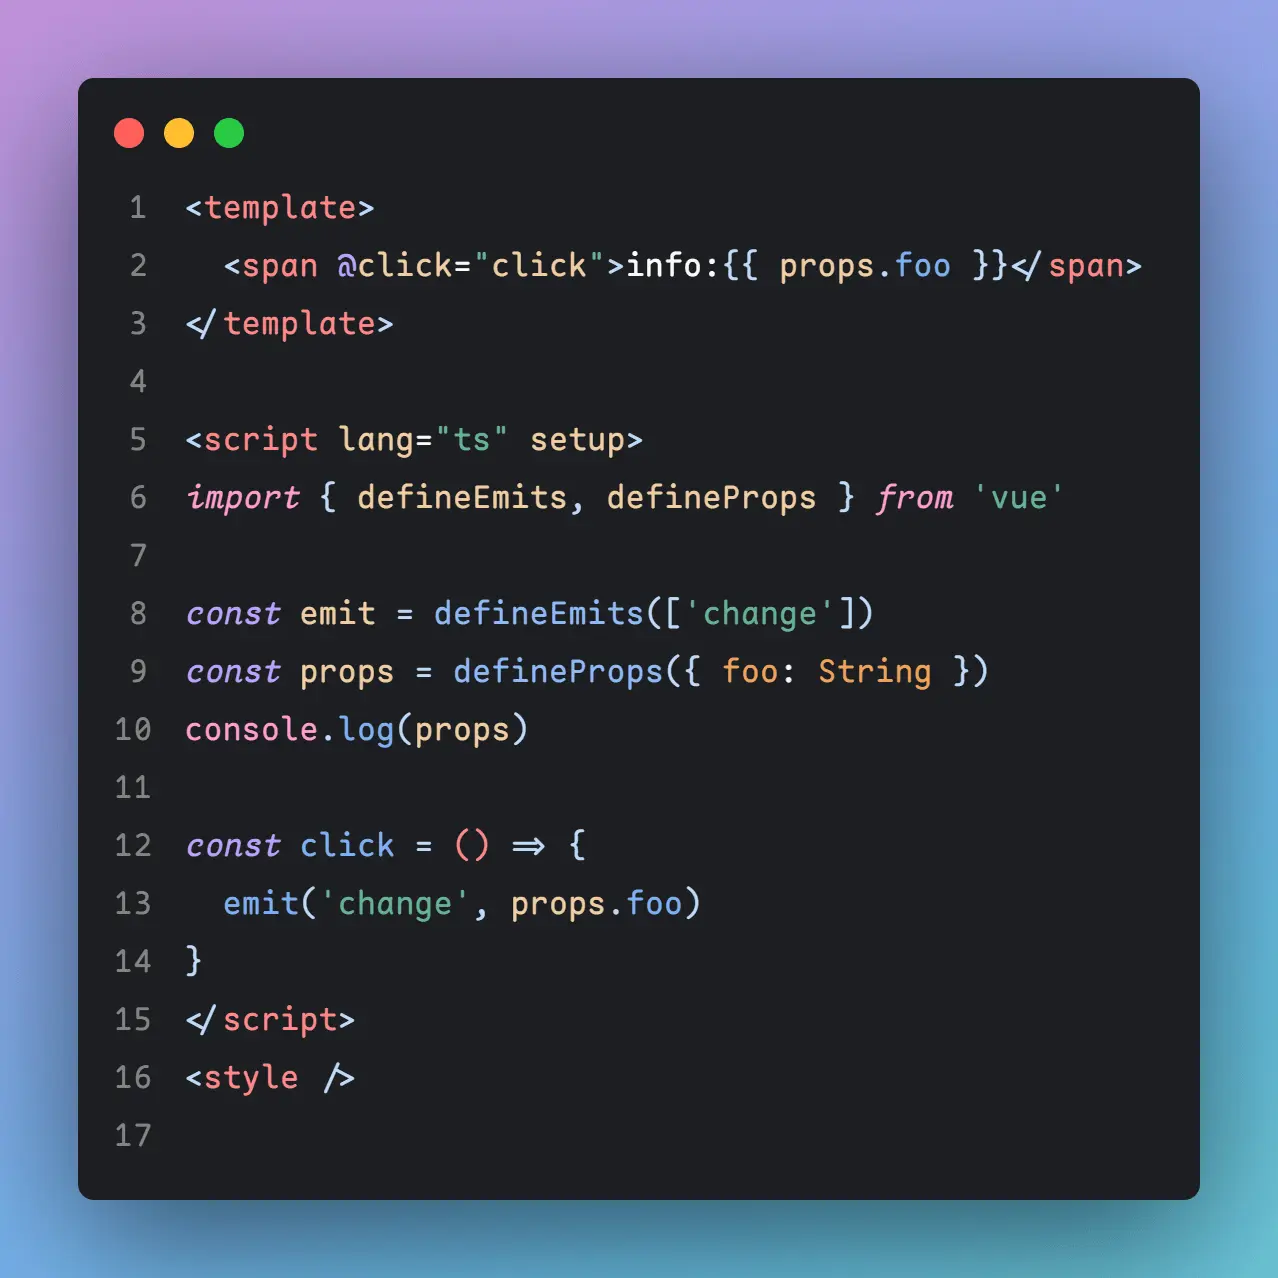
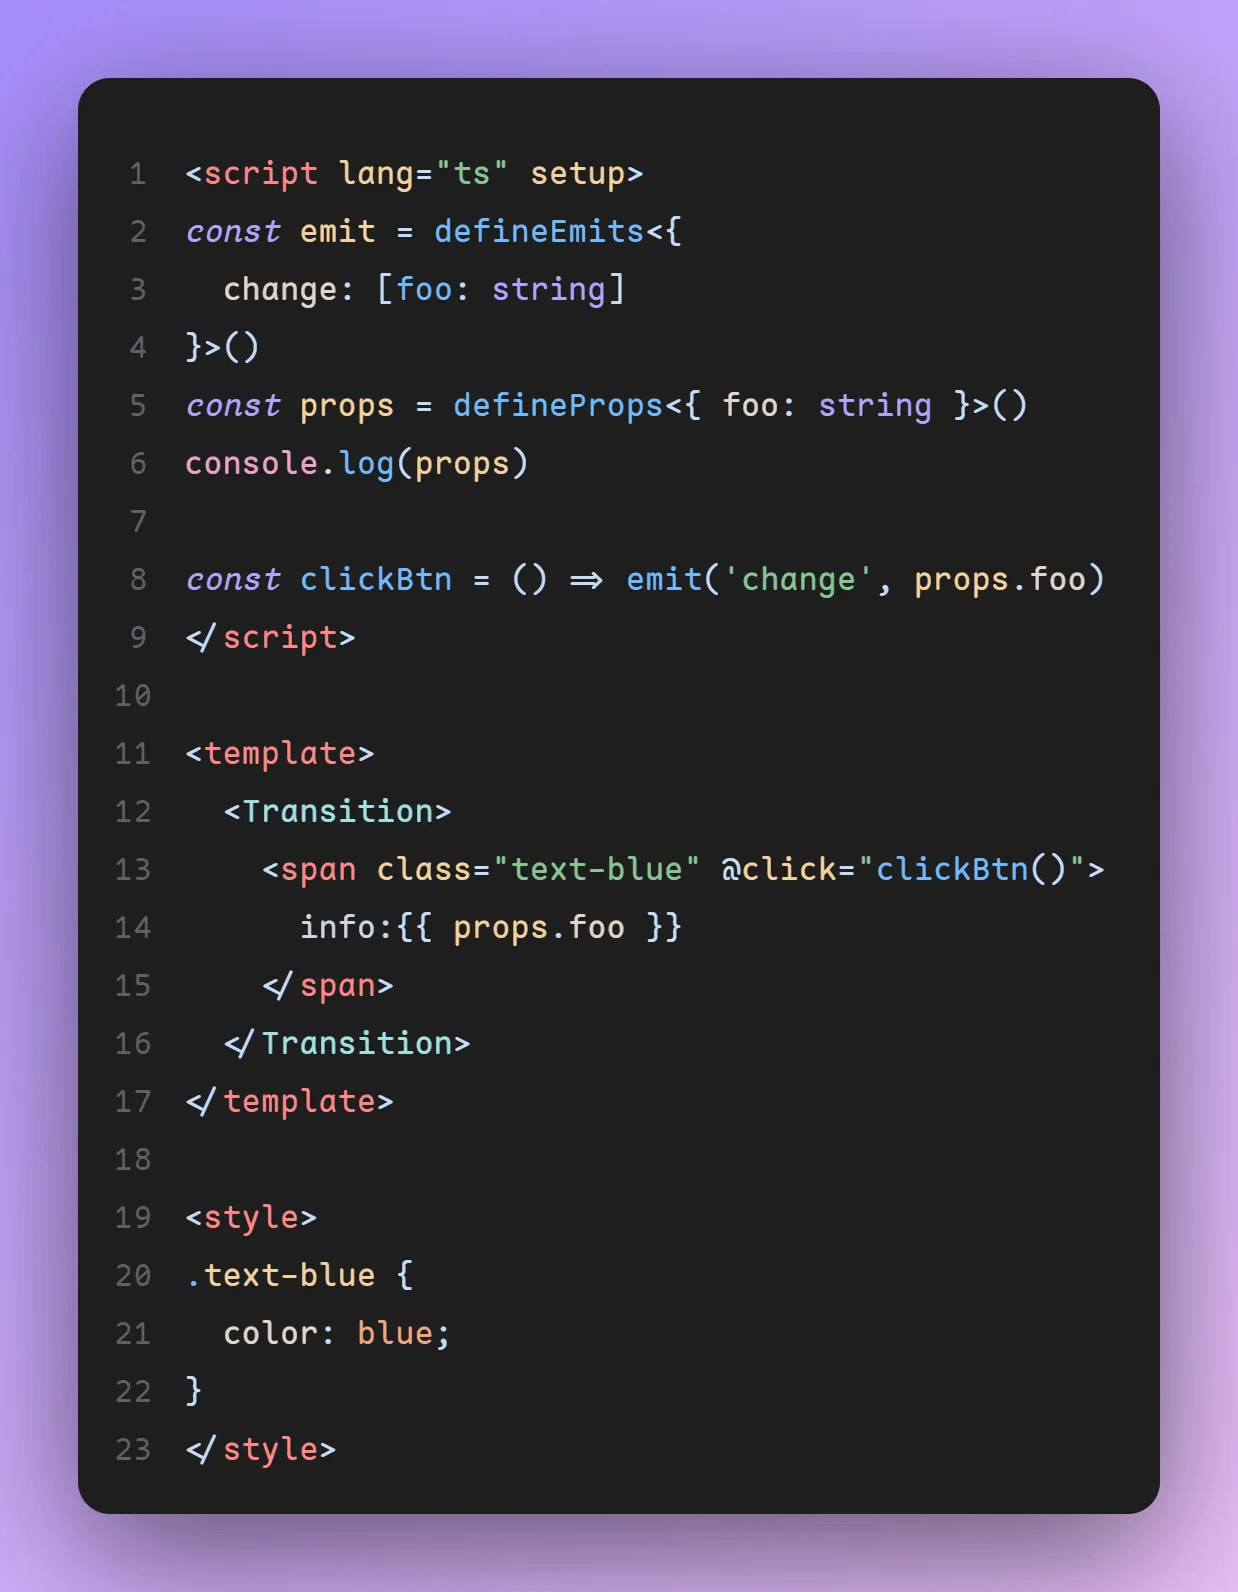
update code example

diff --git a/img/code_sample/vue.vue b/img/code_sample/vue.vue
@@ -1,16 +1,23 @@
-<template>
-  <span @click="click">info:{{ props.foo }}</span>
-</template>
-
 <script lang="ts" setup>
-import { defineEmits, defineProps } from 'vue'
-
-const emit = defineEmits(['change'])
-const props = defineProps({ foo: String })
+const emit = defineEmits<{
+  change: [foo: string]
+}>()
+const props = defineProps<{ foo: string }>()
 console.log(props)
 
-const click = () => {
-  emit('change', props.foo)
-}
+const clickBtn = () => emit('change', props.foo)
 </script>
-<style />
+
+<template>
+  <Transition>
+    <span class="text-blue" @click="clickBtn()">
+      info:{{ props.foo }}
+    </span>
+  </Transition>
+</template>
+
+<style>
+.text-blue {
+  color: blue;
+}
+</style>

diff --git a/img/code_sample/react.tsx b/img/code_sample/react.tsx
@@ -10,7 +10,7 @@ export default function Form({ name }) {
     <form onSubmit={(e) => {
       e.preventDefault();
       setIsSent(true);
-      sendMessage(message);
+      postMessage(message);
     }}>
       <textarea
         placeholder="Message"

diff --git a/img/code_sample/rust.rs b/img/code_sample/rust.rs
@@ -1,10 +1,29 @@
-#[cfg(windows)]
-#[inline]
-pub fn check_is_symlink(file_path: &str) -> bool {
-    let symlink_metadata = match fs::symlink_metadata(file_path) {
-        Ok(result) => result,
-        Err(_) => return true,
-    };
+pub struct Solution {}
 
-    symlink_metadata.file_attributes() == 1040
+use std::collections::HashMap;
+impl Solution {
+    pub fn two_sum(nums: Vec<i32>, target: i32) -> Vec<i32> {
+        let mut map = HashMap::with_capacity(nums.len());
+        for (index, num) in nums.iter().enumerate() {
+            match map.get(&(target - num)) {
+                None => {
+                    map.insert(num, index);
+                }
+                Some(sub_index) => return vec![*sub_index as i32, index as i32],
+            }
+        }
+        vec![]
+    }
+}
+
+#[cfg(test)]
+mod tests {
+    use super::*;
+
+    #[test]
+    fn test_1() {
+        assert_eq!(vec![0, 1], Solution::two_sum(vec![2, 7, 11, 15], 9));
+        assert_eq!(vec![1, 2], Solution::two_sum(vec![3, 2, 4], 6));
+        println!("Success!");
+    }
 }

diff --git a/img/code_sample/go.go b/img/code_sample/go.go
@@ -1,16 +1,21 @@
-func main(){
-   r := gin.Default()
-   r.GET("/moreXML", func(c *gin.Context){
-      type msg struct {
-         Name string
-         Message string
-         Age int
-      }
-      var message msg
-      message.Name="test"
-      message.Message="Helloworld!"
-      message.Age = 18
-      c.XML(http.StatusOK,message)
-   })
-   r.Run(":8080")
+package main
+
+import (
+    "fmt"
+    "time"
+)
+
+func main() {
+    queue := make(chan int, 1)
+    go func() {
+        for {
+            data := <- queue
+            fmt.Print(data, " ")
+        }
+    }()
+
+    for i := 0; i < 10; i ++ {
+        queue <- i
+    }
+    time.Sleep(time.Second)
 }

diff --git a/img/code_sample/python.py b/img/code_sample/python.py
@@ -1,5 +1,7 @@
 class BasicBlock(nn.Module):
     expansion = 1
+    print(f"BasicBlock: {expansion}")
+
     def __init__(self, inplanes, planes, stride=1, downsample=None):
         super(BasicBlock, self).__init__()
 

diff --git a/img/code_sample/java.java b/img/code_sample/java.java
@@ -1,6 +1,6 @@
 import java.util.List;
 
-public class test {
+public class java {
   private static final int RED = 0;
 
   class Widget {

diff --git a/README.md b/README.md
@@ -84,6 +84,10 @@ compatibility & usage: in <a href="https://github.com/tonsky/FiraCode#editor-com
 
 ## Screenshots
 
+code theme: [vscode-theme-maple](https://github.com/subframe7536/vscode-theme-maple)
+
+generate by: [VSCodeSnap](https://github.com/luisllamasbinaburo/VSCodeSnap)
+
 <details>
 <summary><b>Cli (click to expand!)</b></summary>
 
@@ -121,7 +125,9 @@ compatibility & usage: in <a href="https://github.com/tonsky/FiraCode#editor-com
 <details>
 <summary><b>Go</b></summary>
 
-![](img/code_sample/go.webp)
+<p align="center">
+  <img src="img/code_sample/go.webp" width="320"/>
+</p>
 
 </details>
 
@@ -152,6 +158,7 @@ you can adjust some config in `source/build.py`
 Currently, the build script is only available on Windows. PRs for other platform are welcome!
 
 more fine-grained options can be set at the comming V7
+
 
 ### Normal Build
 

diff --git a/CHANGELOG.md b/CHANGELOG.md
@@ -1,5 +1,18 @@
 # changelog
 
+## v6.4 (UnReleased)
+
+### feature
+
+- enable to custom build for font features and Nerd Font! setup config and see details in [source/build.py](source/build.py)
+  - currently, build script is only available on Windows. **PR welcome!**
+- add ttfautohint version (friendly for low resolution devices)
+- 现在可以生成不包含 Nerd Font 的中文字体了，详见 chinese 分支 generate-sc.bat 中
+
+### fix
+
+- fix: italic `<->`
+
 ## v6.3
 
 ### feature

diff --git a/README_CN.md b/README_CN.md
@@ -79,6 +79,10 @@
 
 ## 屏幕截图
 
+代码主题: [vscode-theme-maple](https://github.com/subframe7536/vscode-theme-maple)
+
+由 [VSCodeSnap](https://github.com/luisllamasbinaburo/VSCodeSnap) 生成
+
 <details>
 <summary><b>命令行（点击展开！）</b></summary>
 
@@ -116,7 +120,9 @@
 <details>
 <summary><b>Go</b></summary>
 
-![](img/code_sample/go.webp)
+<p align="center">
+  <img src="img/code_sample/go.webp" width="320"/>
+</p>
 
 </details>
 
